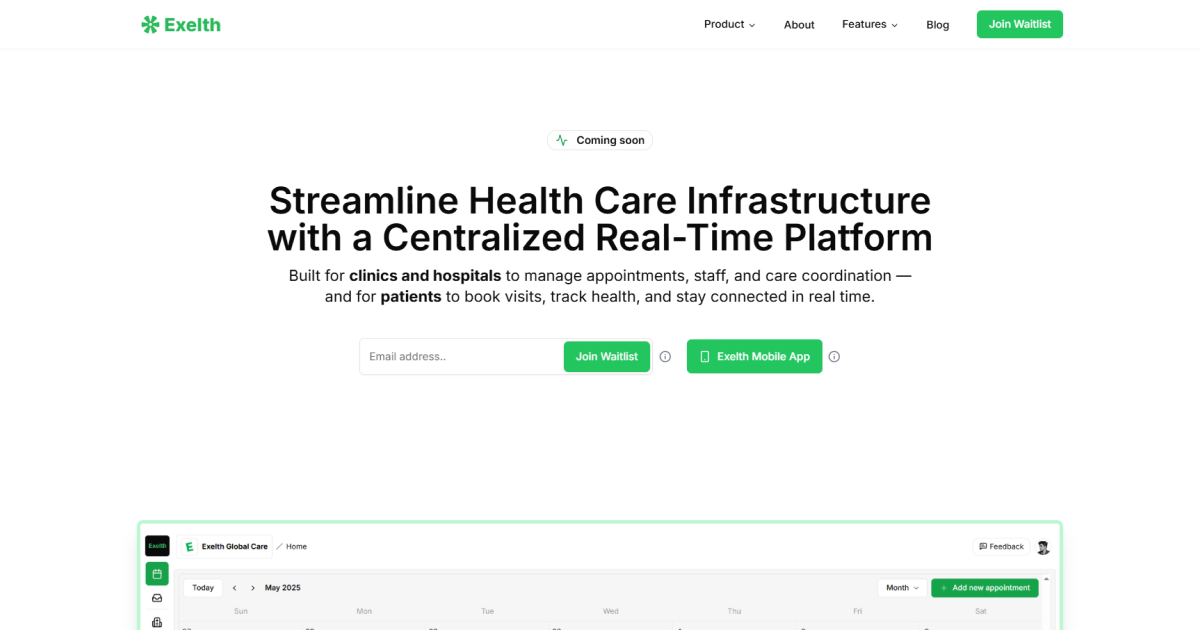
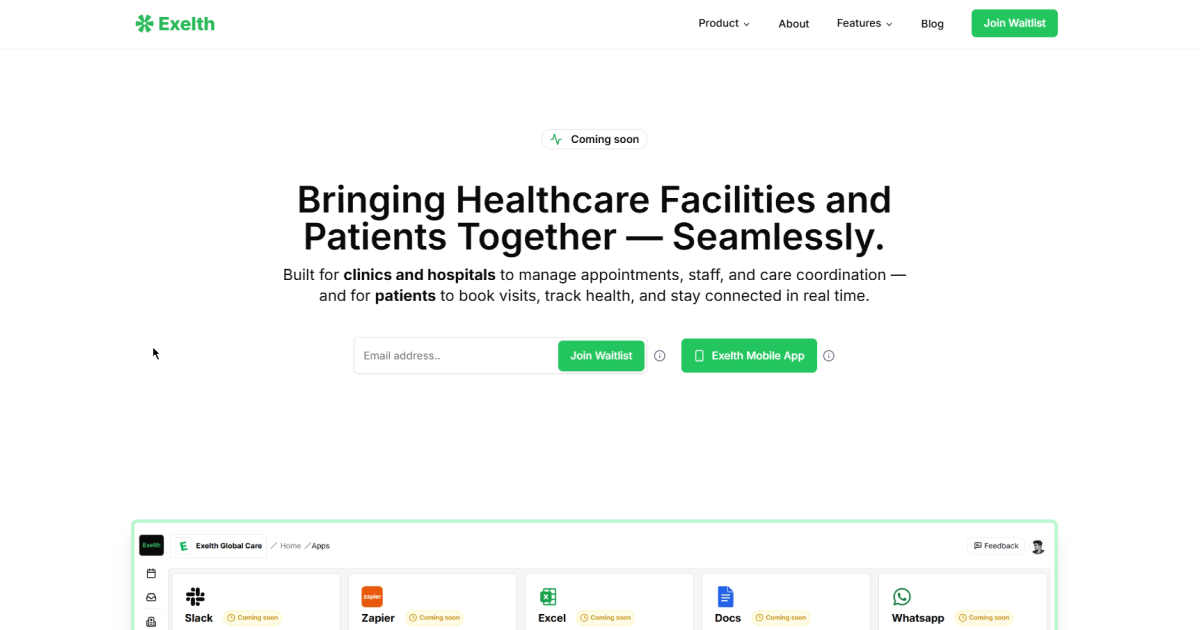
update headline and OG image

diff --git a/src/components/Sections/hero-section.jsx b/src/components/Sections/hero-section.jsx
@@ -61,8 +61,7 @@ const HeroSection = () => {
           id="headline"
           className="translate-y-[50%] text-xl font-semibold opacity-0 blur-sm tablet:text-2xl laptop:text-3xl desktop:text-5xl"
         >
-          Streamline Health Care Infrastructure with a Centralized Real-Time
-          Platform
+          Bringing Healthcare Facilities and Patients Together — Seamlessly.
         </h1>
         <p
           id="desc1"
